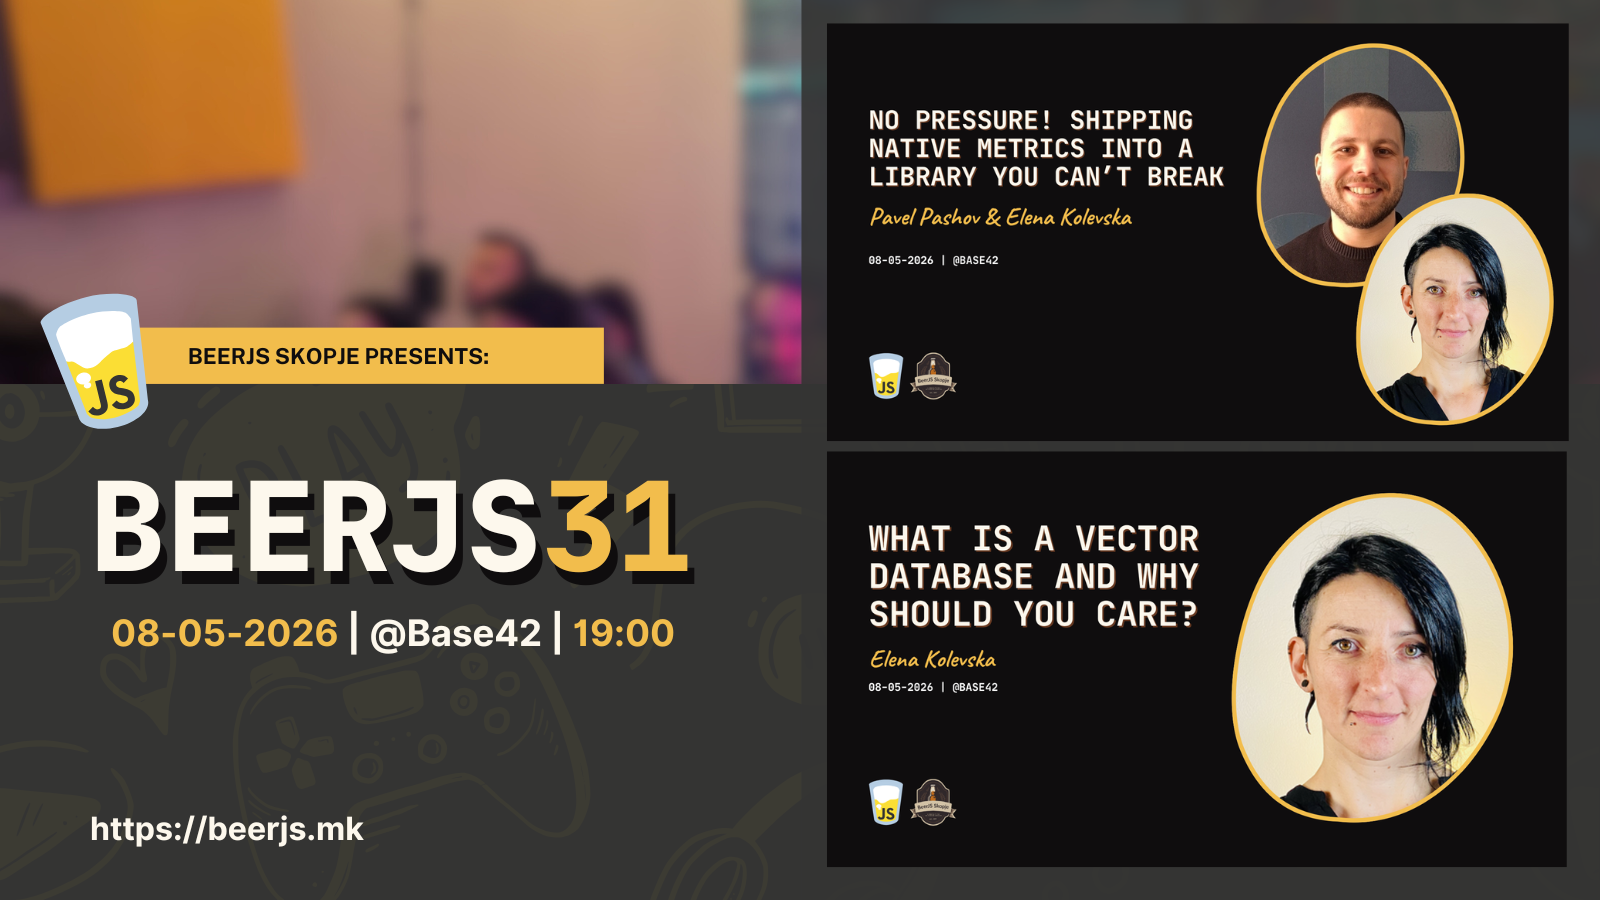
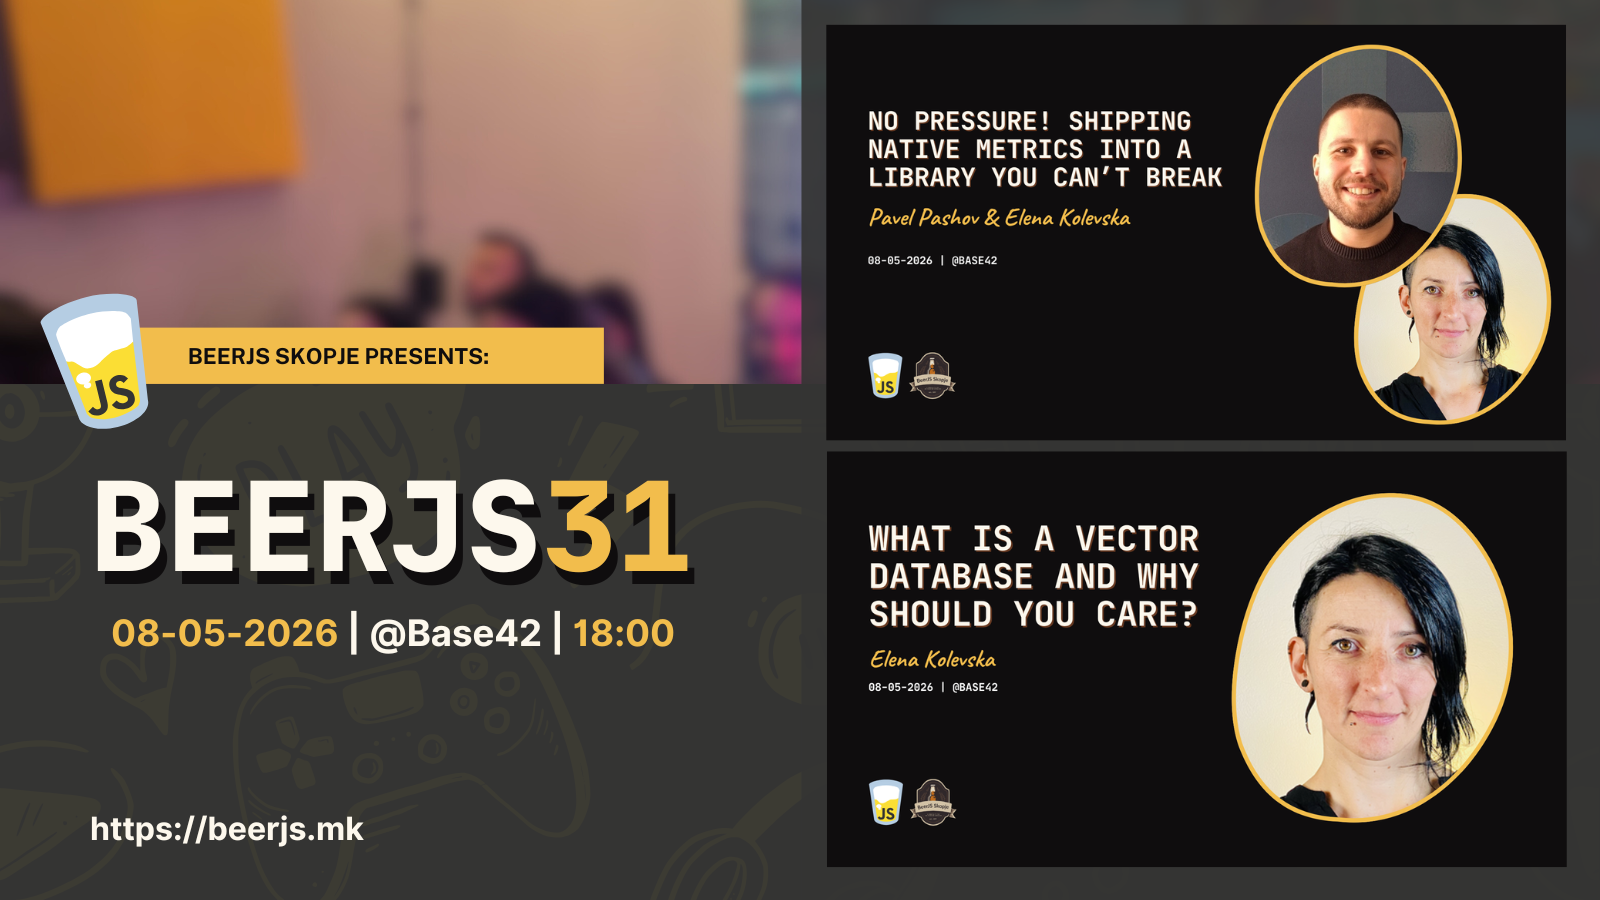
fix: poster and date

diff --git a/src/content/mk/announcements/31.md b/src/content/mk/announcements/31.md
@@ -6,7 +6,7 @@ image: "/img/31.png"
 description: 'BeerJS 31 - 8-ми мај, во Base42.'
 ---
 
-Beer.js 31 - 8-ми мај, во [„Base42"](https://base42.mk). Почеток во 19:00 часот.
+Beer.js 31 - 8-ми мај, во [„Base42"](https://base42.mk). Почеток во 18:00 часот.
 
 <img src="/img/31.png" />
 

diff --git a/src/content/en/announcements/31.md b/src/content/en/announcements/31.md
@@ -6,7 +6,7 @@ image: "/img/31.png"
 description: "BeerJS 31 - May 8th, at Base42."
 ---
 
-BeerJS 31 - May 8th, at [Base42](https://base42.mk). Start at 19:00.
+BeerJS 31 - May 8th, at [Base42](https://base42.mk). Start at 18:00.
 
 <img src="/img/31.png" />
 
